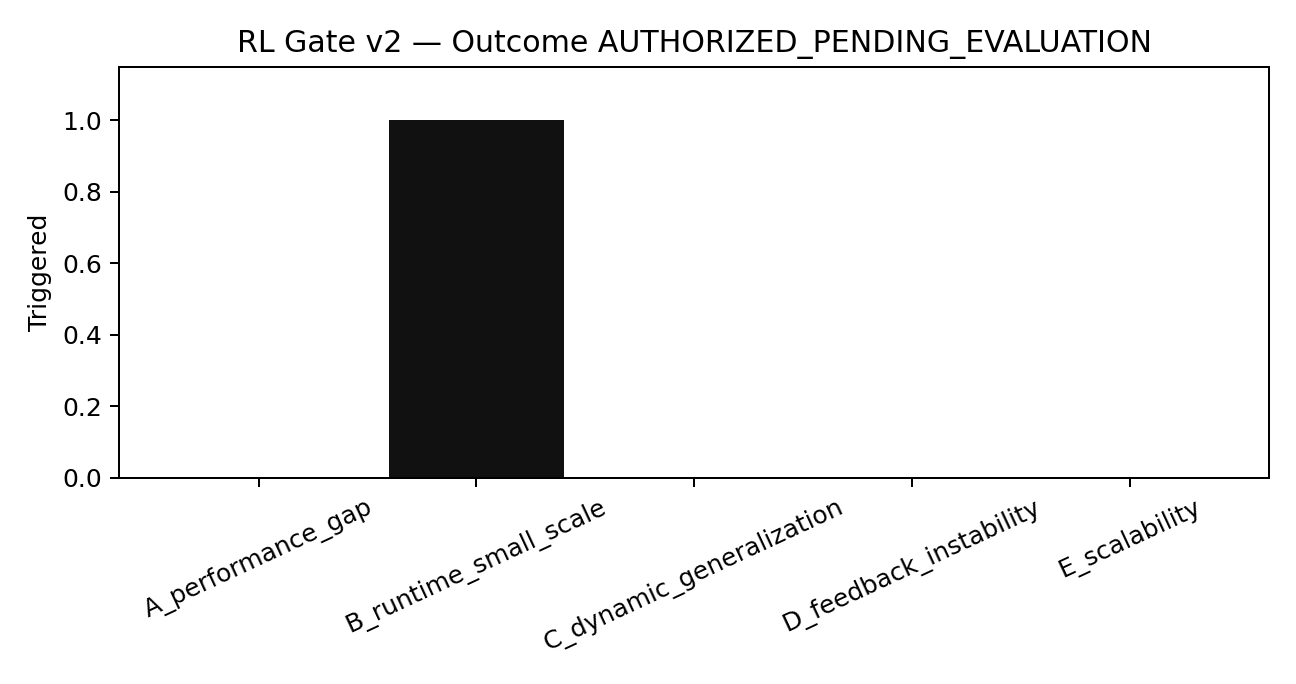
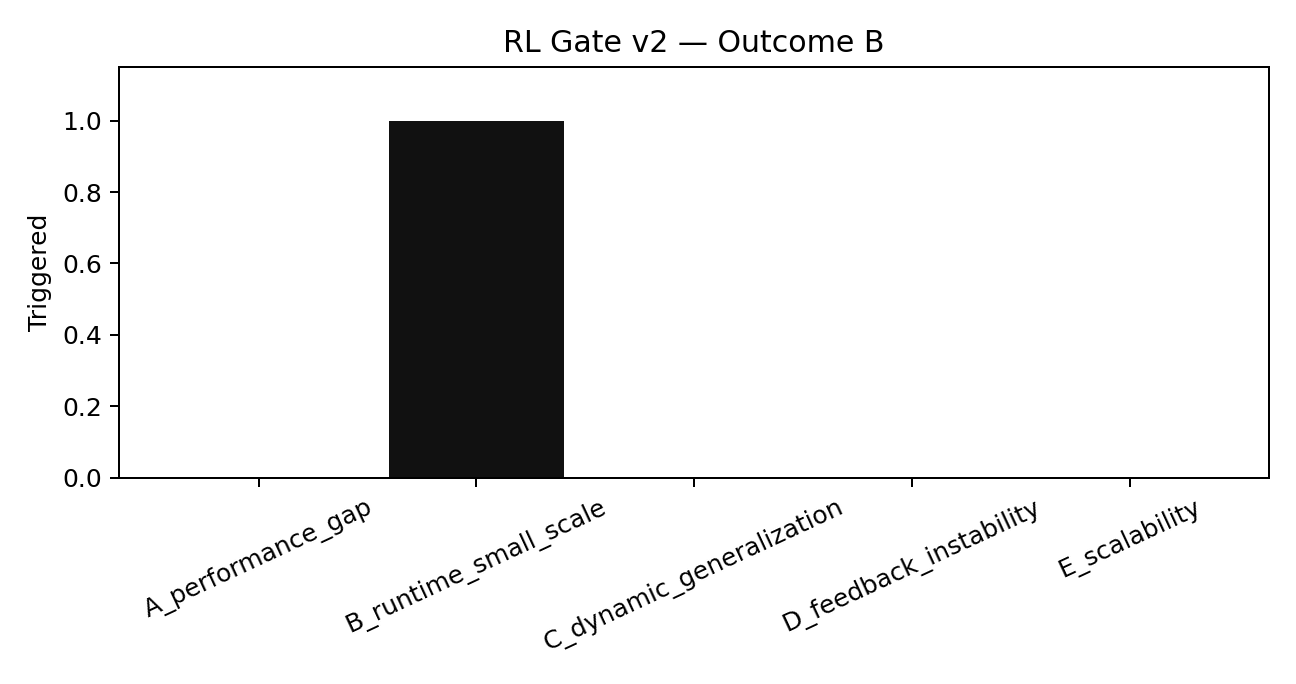
Finalize Outcome B report and audit

Changed region(s): [[0.3395, 0.0307, 0.8951, 0.0921], [0.1852, 0.0307, 0.3086, 0.0921], [0.0617, 0.2763, 0.0926, 0.307]]

diff --git a/scripts/build_final_report_v2.py b/scripts/build_final_report_v2.py
@@ -61,6 +61,11 @@ def run() -> Path:
     scalability = _load("artifacts/studies/scalability/summary.json")
     drift = _load("artifacts/studies/preference_drift/summary.json")
     gate = _load("artifacts/rl_gate_report_v2.json")
+    conditional = (
+        _load("artifacts/studies/conditional_rl/summary.json")
+        if gate.get("rl_introduced")
+        else None
+    )
     _gate_figure(gate)
     h3 = microscopic["H3"]
     h4 = microscopic["H4"]
@@ -170,6 +175,11 @@ mathematical approximation reached operational p95
 {drift['Gate_C']['measured_median_nonstationarity_incremental_degradation']:.4f} against a
 0.10 threshold. Its p95 was {drift['adaptive_p95_incremental_degradation']:.4f}, retained as a
 tail failure even though the pre-registered median Gate C did not authorize RL.</p>
+{f'''<p>Gate B nevertheless authorized RL0. Its held-out mean TTT gap versus the constrained
+deterministic comparator was {conditional['mean_ttt_gap_vs_deterministic']:.5f}, p95 inference
+was {conditional['p95_inference_seconds']:.6f}s, and regret/safety violations were
+{conditional['regret_violation_count']}/{conditional['safety_violation_count']}. It was rejected
+because it did not outperform the deterministic comparator.</p>''' if conditional else ''}
 <h2>8. Conditions of validity and failure</h2>
 <ul><li><strong>Alignment Win:</strong> regret-feasible recommendations beat sampled ETA-only cost.</li>
 <li><strong>Alignment Trade-off:</strong> voluntariness is protected but network cost is higher.</li>

diff --git a/scripts/run_audit_v2.py b/scripts/run_audit_v2.py
@@ -59,7 +59,13 @@ def run() -> Path:
         "H4": "SUPPORTED_NONINFERIOR" if h4["noninferior"] else "FAIL",
         "H5": baseline.get("hypotheses", {}).get("H5", {}).get("status", "PARTIAL"),
         "H6": "FAIL_UNCHANGED",
-        "H7": "NOT_TESTED_RL_NOT_AUTHORIZED" if gate["outcome"] == "A" else "CONDITIONAL",
+        "H7": (
+            "NOT_TESTED_RL_NOT_AUTHORIZED"
+            if gate["outcome"] == "A"
+            else "TESTED_REJECTED"
+            if gate["outcome"] == "B"
+            else "SUPPORTED_RETAINED"
+        ),
     }
     final_decision = "Adaptive Navigation — Supported under specified conditions"
     rl_decision = (
@@ -82,6 +88,7 @@ def run() -> Path:
             "real_topology": "artifacts/studies/real_topology_policy_matrix/summary.json",
             "scalability": "artifacts/studies/scalability/summary.json",
             "preference_drift": "artifacts/studies/preference_drift/summary.json",
+            "conditional_rl": "artifacts/studies/conditional_rl/summary.json",
             "rl_gate": "artifacts/rl_gate_report_v2.json",
         },
         "claim_boundary": (

diff --git a/README.md b/README.md
@@ -10,8 +10,8 @@
 <p align="center">
   <img alt="Python 3.9+" src="https://img.shields.io/badge/Python-3.9%2B-111111?style=flat-square" />
   <img alt="SUMO 1.27.1" src="https://img.shields.io/badge/SUMO-1.27.1-404040?style=flat-square" />
-  <img alt="Tests 44 passing" src="https://img.shields.io/badge/tests-44%20passing-111111?style=flat-square" />
-  <img alt="RL gate Outcome A" src="https://img.shields.io/badge/RL%20gate-Outcome%20A-737373?style=flat-square" />
+  <img alt="Tests 45 passing" src="https://img.shields.io/badge/tests-45%20passing-111111?style=flat-square" />
+  <img alt="RL gate Outcome B" src="https://img.shields.io/badge/RL%20gate-Outcome%20B-737373?style=flat-square" />
 </p>
 
 <p align="center">
@@ -140,12 +140,13 @@ it behind an aggregate objective.
 
 ### RL decision
 
-> **Outcome A — RL not introduced. B6 enumeration reached a declared scale limit, but the
-> hard-constrained clustered approximation met the frozen latency/quality thresholds; median
-> Gate C degradation also stayed below its threshold.**
+> **Outcome B — Gate B authorized RL0 after the fixed-point-aware exact cycle exceeded its
+> frozen runtime threshold. Compact eligibility-only PPO was evaluated, matched the constrained
+> deterministic comparator on held-out TTT, and was rejected because it was not superior.**
 
-This outcome does not claim that RL can never help. The preference-drift p95 remained a recorded
-failure tail even though the pre-registered median Gate C did not trigger.
+RL0 had zero regret/safety violations and microsecond inference, but speed alone was not enough
+to retain it when the deterministic approximation already met operational limits. The drift p95
+remains a recorded failure tail even though median Gate C did not trigger.
 
 ## Evidence
 
@@ -170,7 +171,8 @@ failure tail even though the pre-registered median Gate C did not trigger.
 | [`real_topology_policy_matrix/summary.json`](artifacts/studies/real_topology_policy_matrix/summary.json) | Actual B1/B6 SUMO transfer on Gangnam geometry with synthetic demand |
 | [`scalability/summary.json`](artifacts/studies/scalability/summary.json) | Enumeration boundary, approximation runtime/memory, and Gate E |
 | [`preference_drift/summary.json`](artifacts/studies/preference_drift/summary.json) | Nonstationarity performance, tail behavior, and Gate C |
-| [`artifacts/rl_gate_report_v2.json`](artifacts/rl_gate_report_v2.json) | Frozen Gate C/E reevaluation and Outcome A |
+| [`artifacts/rl_gate_report_v2.json`](artifacts/rl_gate_report_v2.json) | Frozen A–E reevaluation and Outcome B |
+| [`conditional_rl/summary.json`](artifacts/studies/conditional_rl/summary.json) | Gate-authorized held-out PPO evaluation and Outcome B rejection |
 | [`analytical_matrix/summary.json`](artifacts/studies/analytical_matrix/summary.json) | Screening, focused B0–B6 rows, paired statistics, and failure cases |
 | [`analytical_matrix/manifest.json`](artifacts/studies/analytical_matrix/manifest.json) | Clean source commit, runtime, dependencies, and hashes |
 | [`sumo_ring/summary.json`](artifacts/studies/sumo_ring/summary.json) | Microscopic traffic, wave candidates, safety distributions, and claim boundary |

diff --git a/docs/mathematical_spec.md b/docs/mathematical_spec.md
@@ -273,3 +273,9 @@ also misses the frozen five-second latency or five-percent small-scale quality t
 C measures the median incremental degradation induced by nonstationarity after subtracting the
 same approximation's stationary oracle gap. A high p95 remains a documented failure condition
 even when the pre-registered median gate does not trigger.
+
+The final rerun triggered the separately frozen small-scale Gate B after fixed-point iteration
+increased exact-cycle runtime. Conditional RL0 therefore used a masked clipped-PPO actor whose
+actions were eligibility-epsilon choices only. Invalid regret/safety actions were unavailable.
+On held-out analytical conditions it matched, but did not improve upon, the constrained
+deterministic minimum-TTT comparator, so it was rejected (Outcome B).

diff --git a/docs/decisions.md b/docs/decisions.md
@@ -36,3 +36,7 @@
 14. **Mathematical approximation precedes RL.** Enumeration failure reopens scalability work,
     but RL is authorized only if the clustered hard-constrained approximation leaves a measured
     latency or quality problem under the frozen Gate E thresholds.
+15. **Gate-authorized RL0 was evaluated and rejected.** The fixed-point-aware focused cycle
+    triggered frozen Gate B. A compact masked PPO policy could only choose recommendation
+    eligibility, preserved hard regret/safety masks, and matched—but did not outperform—the
+    deterministic comparator on held-out cases. The final decision is Outcome B.

diff --git a/FINAL_AUDIT_V2.md b/FINAL_AUDIT_V2.md
@@ -29,13 +29,13 @@ The original `FINAL_AUDIT.md` remains unchanged as the pre-v2 record.
 | H4 | **FAIL** |
 | H5 | **exploratory_only** |
 | H6 | **FAIL_UNCHANGED** |
-| H7 | **CONDITIONAL** |
+| H7 | **TESTED_REJECTED** |
 
 ## Final decision
 
 **Adaptive Navigation — Supported under specified conditions.**
 
-**Outcome C: retained.**
+**Outcome B: tested and rejected.**
 
 Every conclusion is bounded by the machine-readable artifacts under 
 `artifacts/studies/` and `artifacts/rl_gate_report_v2.json`.

diff --git a/docs/rl_gate_decision_v2.md b/docs/rl_gate_decision_v2.md
@@ -1,8 +1,8 @@
 # RL gate decision v2
 
-## Outcome C
+## Outcome B
 
-**Outcome C: RL0 was authorized, evaluated, and retained.**
+**Outcome B: RL0 was authorized and evaluated, but rejected.**
 
 | Gate | Tested | Triggered |
 |---|---:|---:|
